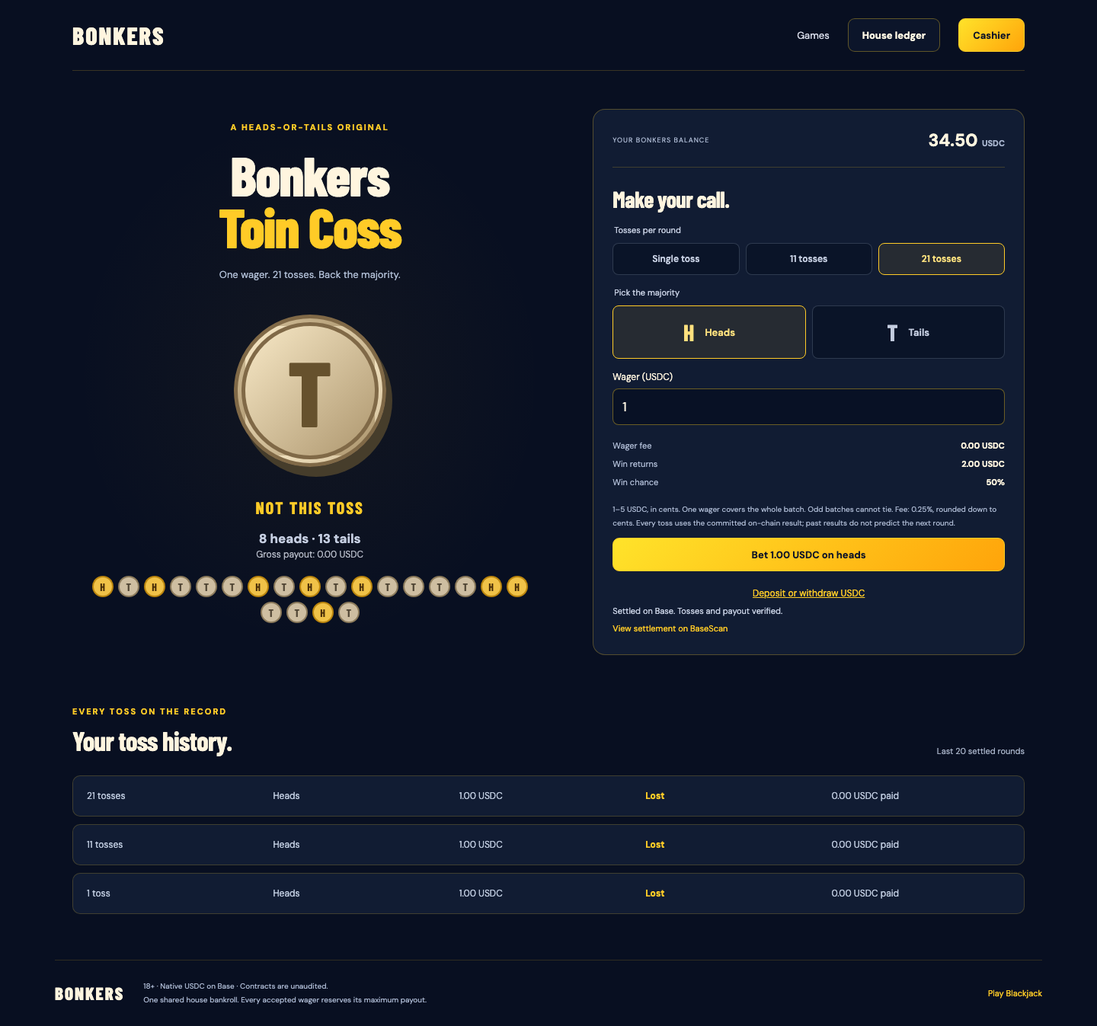
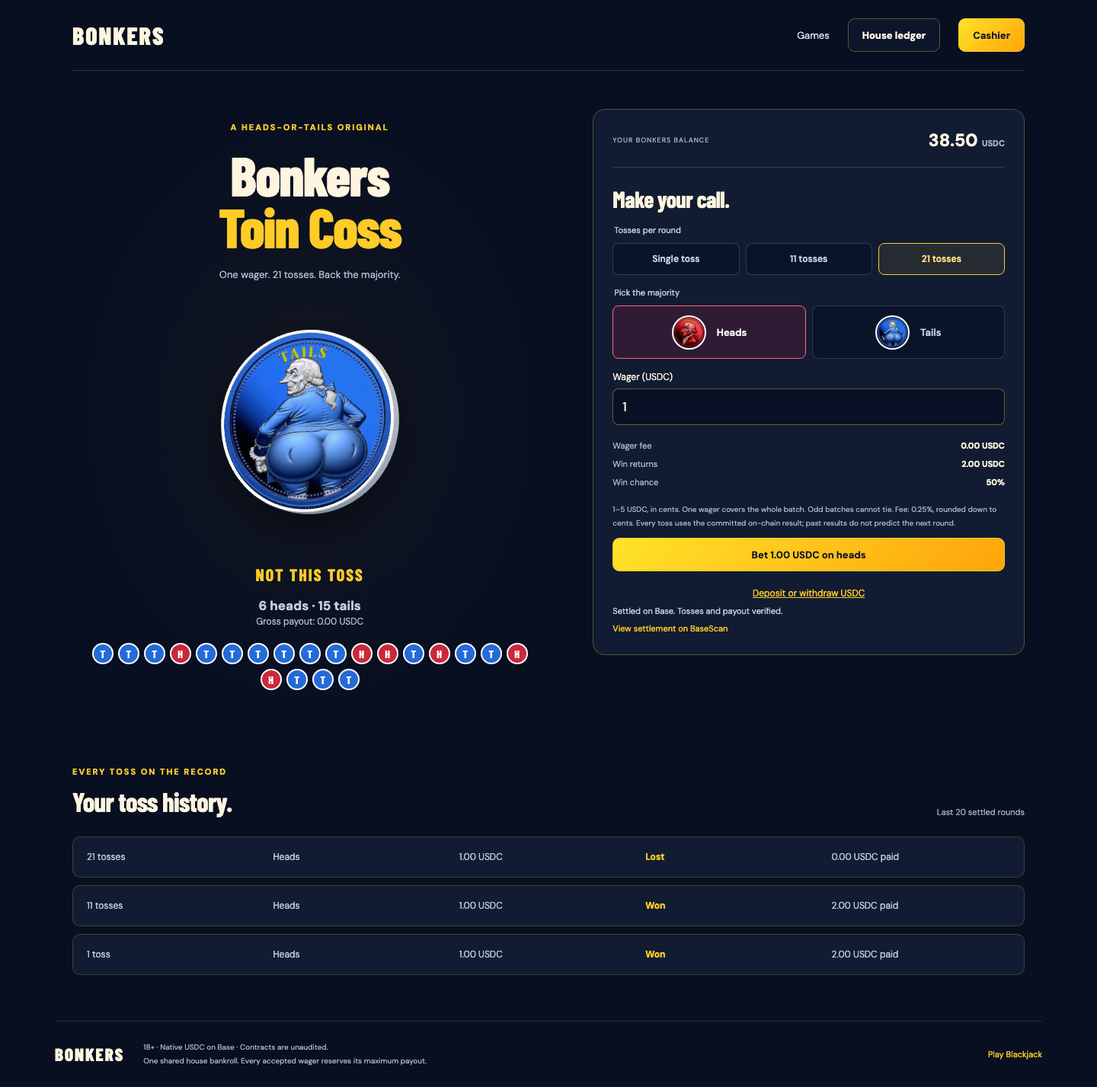
Render supplied Bonkers coin faces in Three.js with white edges

diff --git a/src/live.css b/src/live.css
@@ -10,3 +10,12 @@
 /* Bonkers casino floor and Toin Coss */
 .casino-home,.coin-page{background:#080f21;color:#fff5df;min-height:100dvh;padding:0 clamp(18px,5vw,80px);font-family:var(--font-body),sans-serif}.casino-header{display:flex;justify-content:space-between;align-items:center;gap:20px;padding:24px 0;border-bottom:1px solid #ffc62b33;max-width:1360px;margin:auto}.casino-wordmark{font:800 32px var(--font-heading),sans-serif;letter-spacing:2px;text-decoration:none;color:#fff5df;display:flex;align-items:center;gap:10px}.casino-wordmark>span{display:grid;place-items:center;background:#ffcb27;border:3px solid #a76b06;border-radius:50%;color:#0a1325;width:43px;height:43px;font-size:29px;transform:rotate(-12deg)}.casino-header nav{display:flex;gap:24px;align-items:center;font-size:13px}.casino-header nav>a:not(.live-button){color:#d5d9e6;text-decoration:none}.casino-hero{max-width:1250px;display:grid;grid-template-columns:1.2fr 1fr;align-items:center;gap:40px;margin:65px auto 75px}.casino-hero h1{font:800 clamp(64px,7vw,110px)/.98 var(--font-heading),sans-serif;margin:20px 0 25px}.casino-hero h1 span,.casino-section-title .live-eyebrow{color:#ffcb27}.casino-hero p{color:#b9c3d7;font-size:16px;line-height:1.8}.live-eyebrow{font-size:11px;letter-spacing:2px;color:#ffcb27;font-weight:700}.casino-hero .live-button{margin:15px 0}.casino-status{display:flex;align-items:center;gap:8px;font-size:11px;color:#aebad2;margin-top:14px}.casino-status i{width:7px;height:7px;border-radius:50%;background:#f1a93b}.casino-status i.open{background:#5de3b1}.casino-hero-art{position:relative;height:400px;border:1px solid #ffcb2726;border-radius:50%;background:radial-gradient(ellipse,#f4b21418,transparent 66%)}.casino-chip{position:absolute;top:75px;left:15%;border:14px dashed #e9dfbd;border-radius:50%;width:215px;height:215px;background:#b52d31;box-shadow:0 0 0 9px #6f161d,12px 22px 0 #02071788;display:flex;flex-direction:column;align-items:center;justify-content:center;font:800 100px/1 var(--font-heading),sans-serif;transform:rotate(-15deg)}.casino-chip span{font-size:16px;letter-spacing:3px}.casino-playing-card{position:absolute;top:25px;left:5%;width:108px;height:153px;border-radius:13px;background:#fff3d8;color:#0a142b;border:4px solid #c3b99b;font:700 40px Georgia;padding:10px;transform:rotate(-23deg)}.casino-playing-card span{display:block;text-align:center;font-size:54px}.casino-gold-coin{position:absolute;right:0;bottom:50px;background:radial-gradient(circle at 35% 30%,#ffe77a,#e99b08 80%);border:9px double #aa6505;border-radius:50%;width:170px;height:170px;box-shadow:8px 14px 0 #805007;display:flex;flex-direction:column;align-items:center;justify-content:center;color:#744004;font:800 90px/1 var(--font-heading),sans-serif;transform:rotate(14deg)}.casino-gold-coin span{font-size:8px;letter-spacing:1px;margin-top:6px}.casino-hero-art>small{position:absolute;bottom:7px;left:0;right:0;text-align:center;letter-spacing:3px;font-size:9px;color:#939fb8}.casino-games,.casino-bankroll,.coin-history{max-width:1250px;margin:0 auto 60px;scroll-margin-top:20px}.casino-section-title{display:flex;justify-content:space-between;align-items:end;gap:20px;margin-bottom:25px}.casino-section-title h2,.casino-bankroll h2{font:700 40px var(--font-heading),sans-serif;margin:8px 0 0}.casino-section-title>span{font-size:11px;color:#a5b0c5}.casino-game-grid{display:grid;grid-template-columns:1fr 1fr;gap:25px}.casino-game-card{display:block;text-decoration:none;color:inherit;border:1px solid #ffcb274a;border-radius:18px;overflow:hidden;background:#111c34;transition:transform .15s,border-color .15s}.casino-game-card:hover{transform:translateY(-4px);border-color:#ffcb27}.casino-game-card:focus-visible{outline:3px solid #fff0be;outline-offset:5px}.casino-card-art{height:235px;background:radial-gradient(ellipse at center,#304875,#111d37 70%);display:flex;align-items:center;justify-content:center;position:relative;gap:5px;overflow:hidden}.toss-game-card .casino-card-art{background:radial-gradient(ellipse at center,#714012,#281c1c 70%)}.mini-card{display:flex;flex-direction:column;background:#fff4dc;color:#071325;border-radius:9px;border:2px solid #b9ad89;padding:10px;width:95px;height:135px;font:700 28px Georgia;transform:rotate(-13deg);box-shadow:0 12px 30px #0006}.mini-card small{font-size:48px;text-align:center}.mini-card.red{color:#c52b31;transform:rotate(14deg);margin:30px 0 0 -10px}.casino-card-art>b{position:absolute;right:25px;bottom:10px;color:#fff1c329;font:800 75px var(--font-heading),sans-serif}.mini-coin{display:grid;place-items:center;width:122px;height:122px;border:10px double #a96307;border-radius:50%;background:linear-gradient(135deg,#fff293,#e7a00f);color:#704006;font:800 74px var(--font-heading),sans-serif;transform:rotate(-18deg);box-shadow:8px 12px 0 #5e3909}.mini-coin.tail{background:linear-gradient(135deg,#f3e6c5,#aa956f);border-color:#76674c;color:#584829;transform:rotate(15deg);margin:20px 0 0 -8px}.casino-game-copy{padding:27px}.casino-category{font-size:9px;letter-spacing:1.6px;color:#ffcb27}.casino-game-copy h3{font:700 41px var(--font-heading),sans-serif;margin:9px 0 13px}.casino-game-copy p{font-size:13px;line-height:1.8;color:#b7c2d8;max-width:430px}.casino-game-details{display:flex;gap:12px;flex-wrap:wrap;font-size:10px;color:#e4d3a4;margin:22px 0}.casino-game-details span{background:#ffcb270c;border:1px solid #ffcb272e;border-radius:6px;padding:8px 10px}.casino-game-copy>strong{border-top:1px solid #ffcb2733;display:block;padding-top:18px;color:#ffcb27;font-size:13px}.casino-bankroll{border:1px solid #ffcb272b;border-radius:15px;background:#101a2f;padding:30px;display:grid;grid-template-columns:1.2fr 1fr;gap:30px;align-items:center}.casino-bankroll p{font-size:12px;color:#aab7d0;line-height:1.8;max-width:550px}.casino-bankroll dl{display:flex;gap:30px;justify-content:space-around}.casino-bankroll dt{font-size:10px;color:#aab7d0}.casino-bankroll dd{font:700 35px var(--font-heading),sans-serif;margin:9px 0}.casino-bankroll dd small{font:400 10px var(--font-body),sans-serif;display:block;color:#aab7d0;margin-top:5px}.casino-footer{max-width:1360px;display:flex;justify-content:space-between;align-items:center;gap:25px;padding:25px 0;border-top:1px solid #ffcb2729;margin:auto}.casino-footer .casino-wordmark{font-size:23px}.casino-footer p{font-size:10px;line-height:1.8;color:#aab7d0}.casino-footer>a:last-child{font-size:11px;color:#ffcb27}.coin-page .casino-header{max-width:1250px}.coin-game-layout{max-width:1250px;margin:50px auto 65px;display:grid;grid-template-columns:1.1fr 1fr;gap:60px;align-items:start}.coin-stage{text-align:center;background:radial-gradient(ellipse at center,#f1b5170c,transparent 70%);padding:15px}.coin-stage h1{font:800 72px/.95 var(--font-heading),sans-serif;margin:18px 0}.coin-stage h1 span{color:#ffcb27}.coin-stage>p:not(.live-eyebrow){font-size:13px;color:#afbdd4;line-height:1.8}.result-coin{display:grid;place-items:center;width:200px;height:200px;margin:40px auto;border:15px double #a96a05;border-radius:50%;background:radial-gradient(circle at 30% 25%,#fff799,#f2b21d 65%,#bd7203);color:#754304;font:800 120px var(--font-heading),sans-serif;box-shadow:8px 13px 0 #563405,0 20px 70px #d399071f}.result-coin.tails{background:linear-gradient(135deg,#f8e9c7,#ad966e);border-color:#806947;color:#66512d;box-shadow:8px 13px 0 #463d2b}.coin-result-title{font:700 22px var(--font-heading),sans-serif;letter-spacing:2px;color:#ffcb27}.coin-result-detail{margin-top:16px;font-size:12px;color:#c4cde0}.coin-result-detail>b{font-size:17px}.coin-bet-panel{border:1px solid #ffcb2747;border-radius:16px;background:#111c33;padding:25px}.coin-balance{border-bottom:1px solid #ffcb2733;padding-bottom:20px;display:flex;align-items:center;justify-content:space-between;gap:15px}.coin-balance>span{font-size:9px;letter-spacing:1px;color:#aab7d0}.coin-balance>strong{font-size:23px}.coin-balance small{font-size:11px;color:#aab7d0}.coin-bet-panel h2{font:700 30px var(--font-heading),sans-serif;margin:23px 0 15px}.coin-bet-panel fieldset{border:0;padding:0;margin:16px 0}.coin-bet-panel legend{font-size:11px;margin-bottom:10px;color:#c4cde0}.coin-options{display:flex;gap:8px}.coin-options button{background:#0a1428;color:#c4cde0;border:1px solid #64748a66;border-radius:8px;min-height:42px;flex:1;padding:10px 6px;cursor:pointer;font:600 12px var(--font-body),sans-serif}.coin-options button.selected{background:#ffcb2717;color:#ffe17e;border-color:#ffcb27}.coin-options.sides button{font:700 30px var(--font-heading),sans-serif;display:flex;align-items:center;justify-content:center;gap:14px;min-height:70px}.coin-options.sides span{font:600 13px var(--font-body),sans-serif}.coin-options button:focus-visible{outline:3px solid #fff4c8;outline-offset:2px}.coin-bet-panel fieldset:disabled{opacity:.5}.coin-wager-facts{display:flex;flex-direction:column;gap:10px;margin:20px 0;font-size:11px;color:#aab7d0}.coin-wager-facts span{display:flex;justify-content:space-between}.coin-wager-facts b{color:#fff5df}.coin-bet-panel .coin-rules{font-size:10px;line-height:1.8;color:#aab7d0}.coin-play{width:100%;margin:10px 0 0}.coin-cashier-link{display:block;margin:15px auto 0;color:#ffcb27;background:none;border:0;text-decoration:underline;font:12px var(--font-body),sans-serif;cursor:pointer;padding:6px}.coin-status,.coin-closed{font-size:11px;line-height:1.8;color:#c4cde0;overflow-wrap:anywhere}.coin-closed{color:#ffd76c}.coin-bet-panel>a{font-size:11px;color:#ffcb27}.toss-strip{display:flex;flex-wrap:wrap;gap:6px;justify-content:center;margin:18px 0}.toss-strip>span{display:grid;place-items:center;width:28px;height:28px;border-radius:50%;border:2px solid #ba850e;background:#f0c248;color:#492e08;font:700 14px var(--font-heading),sans-serif}.toss-strip>span.tail{background:#cebea1;color:#514635;border-color:#8b7a5b}.coin-empty{padding:30px;background:#111c33;border:1px dashed #65738b66;border-radius:12px;color:#aab7d0;font-size:13px;text-align:center}.coin-history-list{display:grid;gap:10px}.coin-history-list details{background:#111c33;border:1px solid #ffcb2733;border-radius:10px;padding:18px}.coin-history-list summary{display:grid;grid-template-columns:repeat(5,1fr);gap:10px;cursor:pointer;font-size:12px;color:#bcc8dc}.coin-history-list summary b{color:#ffcb27}.coin-history-list p{font-size:11px;color:#aab7d0;line-height:1.8}.coin-history-list a{font-size:11px;color:#ffcb27;margin:12px;display:inline-block}.coin-history .casino-section-title h2{font-size:35px}
 @media(max-width:750px){.casino-header{padding:20px 0;gap:10px}.casino-wordmark{font-size:27px}.casino-wordmark>span{width:34px;height:34px;font-size:22px}.casino-header nav{gap:12px;font-size:11px}.casino-header .live-button{padding:10px;font-size:11px}.casino-header nav>a:not(.live-button){display:none}.casino-hero{grid-template-columns:1fr;gap:20px;margin:35px auto 45px}.casino-hero h1{font-size:78px}.casino-hero-art{height:280px;max-width:350px;width:100%;justify-self:center;grid-row:1}.casino-chip{width:150px;height:150px;font-size:68px;top:55px;border-width:10px}.casino-chip span{font-size:11px}.casino-playing-card{width:75px;height:110px;font-size:26px;padding:8px}.casino-playing-card span{font-size:35px}.casino-gold-coin{width:120px;height:120px;font-size:65px;right:12px;bottom:35px;border-width:7px}.casino-gold-coin span{font-size:6px}.casino-hero-art>small{font-size:7px}.casino-game-grid{grid-template-columns:1fr}.casino-section-title{display:block}.casino-section-title>span{display:block;margin-top:12px}.casino-section-title h2{font-size:37px}.casino-card-art{height:210px}.casino-game-copy{padding:22px}.casino-game-copy h3{font-size:39px}.casino-bankroll{grid-template-columns:1fr;padding:23px;gap:5px}.casino-bankroll dl{justify-content:flex-start;gap:30px}.casino-footer{display:block}.casino-footer p{margin:18px 0}.coin-game-layout{grid-template-columns:1fr;gap:25px;margin:30px auto 40px}.coin-stage h1{font-size:60px}.result-coin{width:150px;height:150px;font-size:90px;margin:25px auto;border-width:12px}.coin-stage{padding:0}.coin-bet-panel{padding:20px}.coin-page .casino-header nav{gap:6px}.coin-page .casino-header .casino-wordmark{font-size:23px}.coin-page .casino-header .live-button{font-size:10px;padding:9px}.coin-history-list summary{grid-template-columns:repeat(3,1fr);font-size:11px}.coin-history-list summary>span:last-child{grid-column:2/4}.coin-history-list details{padding:15px}.coin-options button{font-size:11px}.casino-bankroll h2{font-size:33px}}
+
+/* Supplied coin faces on a lit Three.js cylinder with a white rim and edge. */
+.coin-3d{position:relative;width:min(100%,330px);aspect-ratio:1;margin:16px auto 22px;filter:drop-shadow(0 22px 25px #0006)}
+.coin-3d-canvas,.coin-3d canvas{position:absolute;inset:0;width:100%;height:100%;display:block}.coin-3d-fallback{position:absolute;width:73%;height:73%;left:13.5%;top:13.5%;border-radius:50%;border:5px solid white;object-fit:cover;object-position:center;box-shadow:7px 5px 0 #dce3ee}.coin-3d-fallback[hidden]{display:none}
+.casino-coin-preview{position:absolute;width:235px;height:235px;right:-12px;bottom:-8px;z-index:2}.casino-coin-preview .coin-3d{width:100%;margin:0}
+.coin-card-face{width:140px;height:140px;object-fit:cover;border-radius:50%;border:4px solid #fff;transform:perspective(500px) rotateY(-20deg) rotateZ(-15deg);box-shadow:7px 5px 0 #dce3ee}.coin-card-face.tail{transform:perspective(500px) rotateY(20deg) rotateZ(15deg);margin:20px 0 0 -10px}
+.coin-options.sides img{width:45px;height:45px;border-radius:50%;border:2px solid #fff}.coin-options.sides button:first-child.selected{background:#b6223930;border-color:#ff6979;color:#fff}.coin-options.sides button:last-child.selected{background:#2369e830;border-color:#68a6ff;color:#fff}
+.toss-strip>span.head{background:#ca283c;border-color:#fff;color:#fff}.toss-strip>span.tail{background:#246bd9;border-color:#fff;color:#fff}
+@media(max-width:750px){.coin-stage .coin-3d{width:260px;margin:10px auto 20px}.casino-coin-preview{width:175px;height:175px;right:-9px;bottom:8px}.coin-card-face{width:125px;height:125px}}

diff --git a/src/ToinCoss.tsx b/src/ToinCoss.tsx
@@ -1,6 +1,7 @@
 'use client';
 import {useEffect,useState} from 'react';
 import Link from 'next/link';
+import Coin3D from './Coin3D';
 import {type Address,type Hex} from 'viem';
 import {coinAbi,verifyCoinReceipt,type CoinRound,type TossCount} from '../shared/crypto/coin';
 import type {HouseStatus} from '../shared/crypto/house';
@@ -28,8 +29,8 @@ export default function ToinCoss({owner,status,balance,busy,authenticated,onConn
  const flips=receipt?verifyCoinReceipt(receipt):[],result=receipt?BigInt(receipt.payout)>0n?'YOU CALLED IT':'NOT THIS TOSS':round?.failure?'ROUND RECOVERED':'CALL YOUR SHOT';
  return <div className="coin-page">
   <header className="casino-header"><Link className="casino-wordmark" href="/">BONKERS</Link><nav aria-label="Game navigation"><Link href="/">Games</Link><button className="live-button quiet" onClick={onLedger}>House ledger</button><button className="live-button" disabled={!!busy} onClick={owner?onCashier:onConnect}>{owner?'Cashier':'Connect wallet'}</button></nav></header>
-  <section className="coin-game-layout"><div className="coin-stage"><p className="live-eyebrow">A HEADS-OR-TAILS ORIGINAL</p><h1>Bonkers<br/><span>Toin Coss</span></h1><p>{count===1?'One toss. Your call.':'One wager. '+count+' tosses. Back the majority.'}</p><div className={'result-coin '+(receipt&&receipt.heads*2<receipt.count?'tails':'')} aria-label={receipt?(receipt.heads*2>receipt.count?'Heads wins':'Tails wins'):'Coin awaiting a toss'}>{receipt?(receipt.heads*2>receipt.count?'H':'T'):'B'}</div><strong className="coin-result-title">{working||busy?'WAITING FOR CONFIRMATION':result}</strong>{receipt&&<div className="coin-result-detail"><b>{receipt.heads} heads · {receipt.count-receipt.heads} tails</b><p>Gross payout: {fmt(receipt.payout)} USDC</p><div className="toss-strip" aria-label="Verified toss sequence">{flips.map((v,i)=><span className={v==='H'?'head':'tail'} key={i} title={`Toss ${i+1}: ${v==='H'?'Heads':'Tails'}`}>{v}</span>)}</div></div>}</div>
-   <section className="coin-bet-panel" aria-labelledby="coin-bet-title"><div className="coin-balance"><span>YOUR BONKERS BALANCE</span><strong data-testid="coin-player-balance">{balance.available===''?'—':fmt(balance.available)} <small>USDC</small></strong></div><h2 id="coin-bet-title">Make your call.</h2><fieldset disabled={working||!!busy||active}><legend>Tosses per round</legend><div className="coin-options">{([1,11,21] as const).map(n=><button className={count===n?'selected':''} key={n} aria-pressed={count===n} onClick={()=>setCount(n)}>{n===1?'Single toss':n+' tosses'}</button>)}</div></fieldset><fieldset disabled={working||!!busy||active}><legend>{count===1?'Pick a side':'Pick the majority'}</legend><div className="coin-options sides"><button aria-pressed={choice===0} className={choice===0?'selected':''} onClick={()=>setChoice(0)}>H <span>Heads</span></button><button aria-pressed={choice===1} className={choice===1?'selected':''} onClick={()=>setChoice(1)}>T <span>Tails</span></button></div></fieldset><label className="wallet-amount">Wager (USDC)<input inputMode="decimal" value={amount} disabled={working||!!busy||active} onChange={e=>setAmount(e.target.value)}/></label><div className="coin-wager-facts"><span>Wager fee <b>{fmt(fee)} USDC</b></span><span>Win returns <b>{fmt(stake*2n)} USDC</b></span><span>Win chance <b>50%</b></span></div><p className="coin-rules">1–5 USDC, in cents. One wager covers the whole batch. Odd batches cannot tie. Fee: 0.25%, rounded down to cents. Every toss uses the committed on-chain result; past results do not predict the next round.</p>
+  <section className="coin-game-layout"><div className="coin-stage"><p className="live-eyebrow">A HEADS-OR-TAILS ORIGINAL</p><h1>Bonkers<br/><span>Toin Coss</span></h1><p>{count===1?'One toss. Your call.':'One wager. '+count+' tosses. Back the majority.'}</p><Coin3D face={receipt?(receipt.heads*2>receipt.count?'heads':'tails'):choice===0?'heads':'tails'} spinning={working||active}/><strong className="coin-result-title">{working||busy?'WAITING FOR CONFIRMATION':result}</strong>{receipt&&<div className="coin-result-detail"><b>{receipt.heads} heads · {receipt.count-receipt.heads} tails</b><p>Gross payout: {fmt(receipt.payout)} USDC</p><div className="toss-strip" aria-label="Verified toss sequence">{flips.map((v,i)=><span className={v==='H'?'head':'tail'} key={i} title={`Toss ${i+1}: ${v==='H'?'Heads':'Tails'}`}>{v}</span>)}</div></div>}</div>
+   <section className="coin-bet-panel" aria-labelledby="coin-bet-title"><div className="coin-balance"><span>YOUR BONKERS BALANCE</span><strong data-testid="coin-player-balance">{balance.available===''?'—':fmt(balance.available)} <small>USDC</small></strong></div><h2 id="coin-bet-title">Make your call.</h2><fieldset disabled={working||!!busy||active}><legend>Tosses per round</legend><div className="coin-options">{([1,11,21] as const).map(n=><button className={count===n?'selected':''} key={n} aria-pressed={count===n} onClick={()=>setCount(n)}>{n===1?'Single toss':n+' tosses'}</button>)}</div></fieldset><fieldset disabled={working||!!busy||active}><legend>{count===1?'Pick a side':'Pick the majority'}</legend><div className="coin-options sides"><button aria-pressed={choice===0} className={choice===0?'selected':''} onClick={()=>setChoice(0)}><img src="/coins/heads-red.png" alt=""/> <span>Heads</span></button><button aria-pressed={choice===1} className={choice===1?'selected':''} onClick={()=>setChoice(1)}><img src="/coins/tails-blue.png" alt=""/> <span>Tails</span></button></div></fieldset><label className="wallet-amount">Wager (USDC)<input inputMode="decimal" value={amount} disabled={working||!!busy||active} onChange={e=>setAmount(e.target.value)}/></label><div className="coin-wager-facts"><span>Wager fee <b>{fmt(fee)} USDC</b></span><span>Win returns <b>{fmt(stake*2n)} USDC</b></span><span>Win chance <b>50%</b></span></div><p className="coin-rules">1–5 USDC, in cents. One wager covers the whole batch. Odd batches cannot tie. Fee: 0.25%, rounded down to cents. Every toss uses the committed on-chain result; past results do not predict the next round.</p>
    {!owner?<button className="live-button coin-play" onClick={onConnect}>Connect wallet to play</button>:<><button className="live-button coin-play" disabled={!canBet} onClick={()=>void play()}>Bet {valid?fmt(stake):'—'} USDC on {choice===0?'heads':'tails'}</button>{active&&<button className="live-button quiet coin-play" disabled={working||!!busy} onClick={()=>void play(true)}>Resume / recover toss</button>}{active&&<><button className="live-button quiet coin-play" disabled={working||!!busy} onClick={()=>void recoverOnChain()}>Recover expired toss on-chain</button><p className="coin-rules">If the dealer is unavailable, this wallet transaction claims recovery directly after the on-chain deadline. Early claims revert.</p></>}<button className="coin-cashier-link" onClick={onCashier}>Deposit or withdraw USDC</button></>}
    <p className="coin-status" role="status">{busy||notice}</p>{!status.wagersOpen&&<p className="coin-closed">{status.reason}</p>}{owner&&!valid&&<p>Enter 1–5 USDC with at most two decimals.</p>}{owner&&valid&&!enough&&<p>Deposit enough USDC for your wager and fee.</p>}{receipt&&<a href={`https://basescan.org/tx/${receipt.transaction}`} target="_blank" rel="noreferrer">View settlement on BaseScan</a>}</section>
   </section>

diff --git a/src/LiveLobby.tsx b/src/LiveLobby.tsx
@@ -1,4 +1,5 @@
 import Link from 'next/link';
+import Coin3D from './Coin3D';
 import {houseStatus} from '../server/crypto/house';
 import {formatUSDC} from '../shared/crypto/money';
 import './live.css';
@@ -6,10 +7,10 @@ export default async function LiveLobby(){
  const house=await houseStatus();
  return <main className="casino-home">
   <header className="casino-header"><Link href="/" className="casino-wordmark"><span>B</span>BONKERS</Link><nav aria-label="Main navigation"><a href="#games">Games</a><Link href="/house">House</Link><Link className="live-button" href="/live/bonkers-room?cashier=1">Connect wallet</Link></nav></header>
-  <section className="casino-hero"><div><p className="live-eyebrow">YOUR WALLET. YOUR CALL.</p><h1>A little mad.<br/><span>All Bonkers.</span></h1><p>One balance. Two ways to go Bonkers.<br/>Blackjack or a straight-up heads-or-tails showdown.</p><a href="#games" className="live-button">Choose your game</a><div className="casino-status"><i className={house.depositsOpen?'open':''}/>{house.depositsOpen?'House open · USDC on Base':'Deposits closed · waiting for the house'}</div></div><div className="casino-hero-art" aria-hidden="true"><div className="casino-chip">B<span>BONKERS</span></div><div className="casino-playing-card">A<span>♠</span></div><div className="casino-gold-coin">H<span>TAILS NEVER FAILS?</span></div><small>YOUR NEXT MOVE IS BONKERS.</small></div></section>
+  <section className="casino-hero"><div><p className="live-eyebrow">YOUR WALLET. YOUR CALL.</p><h1>A little mad.<br/><span>All Bonkers.</span></h1><p>One balance. Two ways to go Bonkers.<br/>Blackjack or a straight-up heads-or-tails showdown.</p><a href="#games" className="live-button">Choose your game</a><div className="casino-status"><i className={house.depositsOpen?'open':''}/>{house.depositsOpen?'House open · USDC on Base':'Deposits closed · waiting for the house'}</div></div><div className="casino-hero-art" aria-hidden="true"><div className="casino-chip">B<span>BONKERS</span></div><div className="casino-playing-card">A<span>♠</span></div><div className="casino-coin-preview"><Coin3D/></div><small>YOUR NEXT MOVE IS BONKERS.</small></div></section>
   <section className="casino-games" id="games" aria-labelledby="games-title"><div className="casino-section-title"><div><p className="live-eyebrow">PICK YOUR GAME</p><h2 id="games-title">The floor is yours.</h2></div><span>Native USDC · Base network</span></div><div className="casino-game-grid">
    <Link className="casino-game-card blackjack-game-card" href="/blackjack" aria-label="Play Blackjack"><div className="casino-card-art" aria-hidden="true"><span className="mini-card">A<small>♠</small></span><span className="mini-card red">K<small>♥</small></span><b>21</b></div><div className="casino-game-copy"><span className="casino-category">THE CLASSIC. A LITTLE BONKERS.</span><h3>Blackjack</h3><p>Your own table. Your own dealer hand. Hit, stand, split, double—or take the sensible way out.</p><div className="casino-game-details"><span>5 USDC initial wager</span><span>Blackjack pays 3:2</span></div><strong>Choose a blackjack room</strong></div></Link>
-   <Link className="casino-game-card toss-game-card" href="/toin-coss" aria-label="Play Bonkers Toin Coss"><div className="casino-card-art" aria-hidden="true"><span className="mini-coin">H</span><span className="mini-coin tail">T</span><b>50/50</b></div><div className="casino-game-copy"><span className="casino-category">HEADS. TAILS. NO TONGUE TWISTERS.</span><h3>Bonkers Toin Coss</h3><p>Call one toss, or back the majority across 11 or 21. One wager. Every toss on the record.</p><div className="casino-game-details"><span>1–5 USDC wagers</span><span>Win returns 2× wager</span></div><strong>Play Toin Coss</strong></div></Link>
+   <Link className="casino-game-card toss-game-card" href="/toin-coss" aria-label="Play Bonkers Toin Coss"><div className="casino-card-art" aria-hidden="true"><img className="coin-card-face" src="/coins/heads-red.png" alt=""/><img className="coin-card-face tail" src="/coins/tails-blue.png" alt=""/><b>50/50</b></div><div className="casino-game-copy"><span className="casino-category">HEADS. TAILS. NO TONGUE TWISTERS.</span><h3>Bonkers Toin Coss</h3><p>Call one toss, or back the majority across 11 or 21. One wager. Every toss on the record.</p><div className="casino-game-details"><span>1–5 USDC wagers</span><span>Win returns 2× wager</span></div><strong>Play Toin Coss</strong></div></Link>
   </div></section>
   <section className="casino-bankroll"><div><p className="live-eyebrow">ONE HOUSE. REAL LIMITS.</p><h2>Backed before you bet.</h2><p>Both games use the same house reserve. Every accepted wager locks its maximum house liability. If capacity is full, a new wager is refused.</p></div><dl><div><dt>Unreserved house USDC</dt><dd>{house.freeCollateral?formatUSDC(BigInt(house.freeCollateral)).replace(/(\.\d{2})0+$/,'$1'):'—'}</dd></div><div><dt>Dealer round limit</dt><dd>{house.activeLimit??10}<small> pending + active</small></dd></div></dl></section>
   <footer className="casino-footer"><Link className="casino-wordmark" href="/">BONKERS</Link><p>18+ · Native USDC on Base · Wallet confirmation required.<br/>Contracts are unaudited. Deposits open only with the house wallet’s authorization.</p><Link href="/house">House controls</Link></footer>

diff --git a/tests/crypto-browser/live-wallet.spec.ts b/tests/crypto-browser/live-wallet.spec.ts
@@ -38,7 +38,7 @@ test('one shared house: Base selection, explicit opening, separate player deposi
  await expect(pp.getByRole('button',{name:'Download receipt'})).toBeVisible();const latest=await (await pp.request.get('/api/house/round')).json();assert.equal(verifyCryptoReceipt(latest.receipt).valid,true);assert.equal(await client.readContract({address:vault,abi:vaultAbi,functionName:'feeRevenue'}),10000n);assert.equal(await client.readContract({address:game,abi:gameAbi,functionName:'expectedPlayer',args:[latest.id]}),player.address);
  await pp.getByRole('button',{name:'House ledger'}).click();await expect(pp.getByTestId('house-fees')).toHaveText('0.01 USDC');await expect(pp.getByTestId('ledger-integrity')).toContainText('cover all accounted');await pp.screenshot({path:'docs/screenshots/shared-house-ledger-local.png'});await pp.getByRole('dialog',{name:'House ledger'}).getByRole('button',{name:'Close',exact:true}).click();
  await pp.goto('/toin-coss');await pp.getByRole('button',{name:'Connect wallet',exact:true}).click();await pp.getByRole('dialog',{name:'Connect wallet'}).getByRole('button',{name:'Base / Coinbase Wallet',exact:true}).click();await expect(pd).toBeVisible();await expect(pd.getByRole('button',{name:'Change wallet'})).toBeEnabled();await pd.getByRole('button',{name:'Close',exact:true}).click();const coinProofs=[];
- for(const n of [1,11,21]){await pp.getByRole('button',{name:n===1?'Single toss':n+' tosses',exact:true}).click();await pp.getByLabel('Wager (USDC)').fill('1');await expect(pp.getByRole('button',{name:'Bet 1.00 USDC on heads',exact:true})).toBeEnabled();await pp.getByRole('button',{name:'Bet 1.00 USDC on heads',exact:true}).click();await expect(pp.locator('.coin-status')).toContainText('Settled on Base',{timeout:60000});const coin=await(await pp.request.get('/api/house/coin')).json();assert.equal(verifyCoinReceipt(coin.round.receipt).length,n);assert.equal(coin.history.length,coinProofs.length+1);coinProofs.push(coin.round.receipt);}
+ for(const n of [1,11,21]){await pp.getByRole('button',{name:n===1?'Single toss':n+' tosses',exact:true}).click();await pp.getByLabel('Wager (USDC)').fill('1');await expect(pp.getByRole('button',{name:'Bet 1.00 USDC on heads',exact:true})).toBeEnabled();let release!:()=>void;const gate=new Promise<void>(resolve=>{release=resolve;});await pp.route('**/api/house/coin-progress',async route=>{await gate;await route.continue();},{times:1});await pp.getByRole('button',{name:'Bet 1.00 USDC on heads',exact:true}).click();await expect(pp.locator('.coin-stage .coin-3d')).toHaveAttribute('data-spinning','true');release();await expect(pp.locator('.coin-status')).toContainText('Settled on Base',{timeout:60000});const coin=await(await pp.request.get('/api/house/coin')).json();assert.equal(verifyCoinReceipt(coin.round.receipt).length,n);const face=coin.round.heads*2>n?'heads':'tails';await expect(pp.locator('.coin-stage .coin-3d')).toHaveAttribute('data-renderer','threejs');await expect(pp.locator('.coin-stage .coin-3d-canvas')).toHaveAttribute('data-settled',face);assert.equal(coin.history.length,coinProofs.length+1);coinProofs.push(coin.round.receipt);}
  for(const[width,height]of[[1440,900],[390,844],[844,390]]){await pp.setViewportSize({width,height});await pp.screenshot({path:`docs/screenshots/toin-coss-${width}.png`,fullPage:true});assert.equal(await pp.evaluate(()=>document.documentElement.scrollWidth>innerWidth),false);}
  const beforeRecovery=await client.readContract({address:vault,abi:vaultAbi,functionName:'available',args:[player.address]});const abandoned=await(await pp.request.post('/api/house/coin-offer',{headers:{origin},data:{amount:'5',count:11}})).json();assert.ok(abandoned.round?.id);const joined=await wallet.writeContract({account:player.address,address:game,abi:coinAbi,functionName:'joinCoin',args:[abandoned.round.id,1,keccak256(toHex('recovery entropy'))]});assert.equal((await client.waitForTransactionReceipt({hash:joined})).status,'success');await client.request({method:'evm_increaseTime',params:[61]} as never);await client.request({method:'evm_mine',params:[]} as never);await pp.reload();await pp.getByRole('button',{name:'Connect wallet',exact:true}).click();await pp.getByRole('dialog',{name:'Connect wallet'}).getByRole('button',{name:'Base / Coinbase Wallet',exact:true}).click();await expect(pd.getByRole('button',{name:'Change wallet'})).toBeEnabled();await pd.getByRole('button',{name:'Close',exact:true}).click();await pp.route('**/api/house/coin-progress',route=>route.abort());await pp.getByRole('button',{name:'Recover expired toss on-chain',exact:true}).click();await expect(pp.locator('.coin-status')).toContainText('On-chain recovery confirmed',{timeout:60000});assert.equal(await client.readContract({address:vault,abi:vaultAbi,functionName:'available',args:[player.address]}),beforeRecovery+5000000n);assert.equal(await client.readContract({address:vault,abi:vaultAbi,functionName:'reserved'}),0n);await pp.unroute('**/api/house/coin-progress');
  await writeFile('docs/crypto/evidence/casino-local.json',JSON.stringify({network:'LOCAL Anvil chain 8453, mock USDC — NOT live Base',mainnetTransactions:0,sharedVault:vault,pendingBlackjackBlocksOtherBlackjackAndCoin:true,directExpiredCoinRecovery:true,coinProofs},null,2)+'\n');

diff --git a/src/coin-scene.ts b/src/coin-scene.ts
@@ -1,0 +1,49 @@
+import * as THREE from 'three';
+export type CoinFace='heads'|'tails';
+export async function createCoinScene(host:HTMLElement,face:CoinFace,spinning:boolean){
+ const renderer=new THREE.WebGLRenderer({alpha:true,antialias:true});
+ renderer.setPixelRatio(Math.min(window.devicePixelRatio,2));renderer.outputColorSpace=THREE.SRGBColorSpace;
+ renderer.domElement.setAttribute('aria-hidden','true');host.appendChild(renderer.domElement);
+ const scene=new THREE.Scene(),camera=new THREE.OrthographicCamera(-1.4,1.4,1.4,-1.4,.1,20);camera.position.z=5;
+ const coin=new THREE.Group();scene.add(coin);
+ scene.add(new THREE.HemisphereLight(0xffffff,0xaebfd7,2.4));const light=new THREE.DirectionalLight(0xffffff,3);light.position.set(-3,4,5);scene.add(light);
+ const white=new THREE.MeshStandardMaterial({color:0xffffff,metalness:.1,roughness:.36});
+ const edgeGeometry=new THREE.CylinderGeometry(1.025,1.025,.16,128);edgeGeometry.rotateX(Math.PI/2);coin.add(new THREE.Mesh(edgeGeometry,white));
+ const rimGeometry=new THREE.TorusGeometry(1.006,.019,12,128);for(const z of [-.08,.08]){const rim=new THREE.Mesh(rimGeometry,white);rim.position.z=z;coin.add(rim);}
+ const faceGeometry=new THREE.CircleGeometry(.995,128);
+ const textures:THREE.Texture[]=[],materials:THREE.Material[]=[white];let disposed=false,frame=0,visible=true,current=face==='heads'?-.35:Math.PI-.35,target=current,turnStart=current,started=0,last=0;
+ const reduceMotion=window.matchMedia('(prefers-reduced-motion: reduce)');
+ let motion=spinning,side=face,settling=false;
+ function draw(time:number){
+  frame=0;if(disposed||!visible||document.hidden)return;
+  const delta=Math.min((time-last)/1000,.05);last=time;
+  if(reduceMotion.matches){current=side==='heads'?-.35:Math.PI-.35;settling=false;coin.position.y=0;}
+  else if(motion){current+=delta*13;coin.position.y=Math.sin(time*.005)*.12;}
+  else if(settling){const t=Math.min((time-started)/850,1),ease=1-Math.pow(1-t,3);current=turnStart+(target-turnStart)*ease;coin.position.y*=1-ease;settling=t<1;}
+  else coin.position.y=0;
+  coin.rotation.set(-.12,current,-.08);renderer.render(scene,camera);host.dataset.settled=!motion&&!settling?side:'';
+  if((motion&&!reduceMotion.matches)||settling)frame=requestAnimationFrame(draw);
+ }
+ function schedule(){if(!disposed&&!frame){last=performance.now();frame=requestAnimationFrame(draw);}}
+ function update(nextFace:CoinFace,nextSpinning:boolean){
+  const changed=side!==nextFace||motion!==nextSpinning;side=nextFace;motion=nextSpinning;
+  if(changed&&!motion){const base=side==='heads'?-.35:Math.PI-.35;turnStart=current;target=base+Math.round((current-base)/(2*Math.PI))*2*Math.PI;if(spinning&&target<current)target+=2*Math.PI;started=performance.now();settling=!reduceMotion.matches;if(!settling)current=target;}
+  spinning=nextSpinning;schedule();
+ }
+ const resize=new ResizeObserver(()=>{const {width,height}=host.getBoundingClientRect();if(width&&height){renderer.setSize(width,height,false);const aspect=width/height;camera.left=-1.4*aspect;camera.right=1.4*aspect;camera.updateProjectionMatrix();schedule();}});resize.observe(host);
+ const intersection=new IntersectionObserver(([entry])=>{visible=entry.isIntersecting;if(visible)schedule();else{cancelAnimationFrame(frame);frame=0;}});intersection.observe(host);
+ const visibility=()=>{if(document.hidden){cancelAnimationFrame(frame);frame=0;}else schedule();};document.addEventListener('visibilitychange',visibility);reduceMotion.addEventListener('change',schedule);
+ const lost=(event:Event)=>{event.preventDefault();visible=false;cancelAnimationFrame(frame);frame=0;host.dispatchEvent(new Event('coin-context-lost'));};renderer.domElement.addEventListener('webglcontextlost',lost);
+ function dispose(){disposed=true;cancelAnimationFrame(frame);resize.disconnect();intersection.disconnect();document.removeEventListener('visibilitychange',visibility);reduceMotion.removeEventListener('change',schedule);renderer.domElement.removeEventListener('webglcontextlost',lost);edgeGeometry.dispose();rimGeometry.dispose();faceGeometry.dispose();textures.forEach(v=>v.dispose());materials.forEach(v=>v.dispose());renderer.dispose();renderer.forceContextLoss();renderer.domElement.remove();}
+ try{
+  const loader=new THREE.TextureLoader();const loaded=await Promise.allSettled(['/coins/heads-red.png','/coins/tails-blue.png'].map(url=>loader.loadAsync(url)));
+  for(const result of loaded)if(result.status==='fulfilled')textures.push(result.value);
+  if(loaded.some(v=>v.status==='rejected'))throw Error('Coin artwork unavailable');
+  for(let n=0;n<textures.length;n++){const texture=textures[n];texture.colorSpace=THREE.SRGBColorSpace;texture.anisotropy=Math.min(8,renderer.capabilities.getMaxAnisotropy());
+   // Sample the circular artwork inside the source PNG's square margin; leave the originals unchanged.
+   texture.repeat.set(.95,.95);texture.offset.set(.025,.025);
+   const material=new THREE.MeshBasicMaterial({map:texture});materials.push(material);const cap=new THREE.Mesh(faceGeometry,material);cap.position.z=n===0?.081:-.081;if(n===1)cap.rotation.y=Math.PI;coin.add(cap);
+  }
+  schedule();return{update,dispose};
+ }catch(error){dispose();throw error;}
+}

diff --git a/tests/crypto-browser/coin-3d.spec.ts b/tests/crypto-browser/coin-3d.spec.ts
@@ -1,0 +1,13 @@
+import {test,expect,type Locator} from '@playwright/test';
+import sharp from 'sharp';
+async function colors(coin:Locator){const {data,info}=await sharp(await coin.screenshot()).removeAlpha().raw().toBuffer({resolveWithObject:true});let red=0,blue=0,white=0;for(let i=0;i<data.length;i+=info.channels){const[r,g,b]=[data[i],data[i+1],data[i+2]];if(r>100&&r>b*1.6&&r>g*1.4)red++;if(b>100&&b>r*1.5&&b>g*1.15)blue++;if(r>220&&g>220&&b>220)white++;}return{red,blue,white};}
+test('Three.js renders both supplied faces with a visible white edge, including on mobile',async({page})=>{
+ const errors:string[]=[];page.on('pageerror',e=>errors.push(e.message));await page.goto('/toin-coss');const coin=page.locator('.coin-stage .coin-3d');await expect(coin).toHaveAttribute('data-renderer','threejs');await expect(coin.locator('.coin-3d-canvas')).toHaveAttribute('data-settled','heads');const heads=await colors(coin);expect(heads.red).toBeGreaterThan(3000);expect(heads.white).toBeGreaterThan(100);await page.screenshot({path:'docs/screenshots/coin-3d-heads.png',fullPage:true});
+ await page.getByRole('button',{name:'Tails',exact:true}).click();await expect(coin.locator('.coin-3d-canvas')).toHaveAttribute('data-settled','tails');const tails=await colors(coin);expect(tails.blue).toBeGreaterThan(3000);expect(tails.white).toBeGreaterThan(100);expect(tails.red).toBeLessThan(heads.red/4);await page.screenshot({path:'docs/screenshots/coin-3d-tails.png',fullPage:true});
+ await page.setViewportSize({width:390,height:844});await expect(coin).toBeVisible();expect(await page.evaluate(()=>document.documentElement.scrollWidth>innerWidth)).toBe(false);await page.screenshot({path:'docs/screenshots/coin-3d-mobile.png',fullPage:true});
+ await page.emulateMedia({reducedMotion:'reduce'});await page.getByRole('button',{name:'Heads',exact:true}).click();await expect(coin.locator('.coin-3d-canvas')).toHaveAttribute('data-settled','heads');expect((await colors(coin)).red).toBeGreaterThan(3000);expect(errors).toEqual([]);
+});
+test('coin artwork remains available when WebGL is unavailable',async({page})=>{
+ await page.addInitScript(()=>{const original=HTMLCanvasElement.prototype.getContext;HTMLCanvasElement.prototype.getContext=function(this:HTMLCanvasElement,type:string,...args:unknown[]){if(type==='webgl'||type==='webgl2'||type==='experimental-webgl')return null;return original.call(this,type,...args as [never]);} as typeof original;});
+ await page.goto('/toin-coss');const coin=page.locator('.coin-stage .coin-3d');await expect(coin.locator('img')).toBeVisible();await page.getByRole('button',{name:'Tails',exact:true}).click();await expect(coin.locator('img')).toHaveAttribute('src','/coins/tails-blue.png');await expect(coin).toHaveAttribute('data-renderer','image');
+});

diff --git a/src/Coin3D.tsx b/src/Coin3D.tsx
@@ -1,0 +1,15 @@
+'use client';
+import {useEffect,useRef,useState} from 'react';
+import type {CoinFace} from './coin-scene';
+export default function Coin3D({face='heads',spinning=false}:{face?:CoinFace;spinning?:boolean}){
+ const host=useRef<HTMLDivElement>(null),scene=useRef<Awaited<ReturnType<typeof import('./coin-scene').createCoinScene>>|null>(null),latest=useRef({face,spinning});
+ const[ready,setReady]=useState(false);latest.current={face,spinning};
+ useEffect(()=>{let cancelled=false;const node=host.current!;const fallback=()=>setReady(false);node.addEventListener('coin-context-lost',fallback);
+  void import('./coin-scene').then(async({createCoinScene})=>{if(cancelled)return;const created=await createCoinScene(node,latest.current.face,latest.current.spinning);if(cancelled){created.dispose();return;}scene.current=created;created.update(latest.current.face,latest.current.spinning);setReady(true);}).catch(()=>{if(!cancelled)setReady(false);});
+  return()=>{cancelled=true;node.removeEventListener('coin-context-lost',fallback);scene.current?.dispose();scene.current=null;};
+ },[]);
+ useEffect(()=>{scene.current?.update(face,spinning);},[face,spinning]);
+ return <div className="coin-3d" role="img" aria-label={spinning?'3D coin flipping; result pending':`3D coin: ${face==='heads'?'red heads':'blue tails'} with a white edge`} data-renderer={ready?'threejs':'image'} data-face={face} data-spinning={spinning}>
+  <img className="coin-3d-fallback" src={`/coins/${face==='heads'?'heads-red':'tails-blue'}.png`} alt="" hidden={ready}/><div className="coin-3d-canvas" ref={host} style={{visibility:ready?'visible':'hidden'}}/>
+ </div>;
+}

diff --git a/docs/crypto/COIN-VISUAL.md b/docs/crypto/COIN-VISUAL.md
@@ -1,0 +1,9 @@
+# Bonkers 3D coin
+
+`src/Coin3D.tsx` loads a browser-only Three.js scene from `src/coin-scene.ts`. The cylinder and two raised rims are white. Separate circular meshes use the supplied red heads and blue tails PNGs. The original files are copied unchanged into `public/coins`; texture UVs exclude their square outer margins. No artwork or outcome is generated by the animation.
+
+The pending wager flips the mesh, then the verified receipt determines its final side (the majority for 11/21-toss batches). Selecting a side previews that face before a result exists. Reduced-motion preferences suppress the flip. Rendering pauses offscreen or while the document is hidden; idle coins render on demand, pixel ratio is capped at two, and GPU resources are disposed on unmount. A WebGL failure displays the corresponding supplied image with a white border.
+
+The homepage preview and game choice buttons use the same artwork. The financial contracts, payout rules, deposit gates and shared reserve accounting are unchanged by this visual update.
+
+Verification: production build and TypeScript pass. Five local browser tests cover both actual WebGL-rendered faces, visible white pixels, mobile overflow, reduced motion, no-WebGL fallback, pending flips and receipt-selected landing sides for 1/11/21 tosses, plus the existing wallet regressions. All financial test transactions use disposable Anvil/mock USDC. Screenshots: `coin-3d-heads.png`, `coin-3d-tails.png` and `coin-3d-mobile.png` in `docs/screenshots`.
